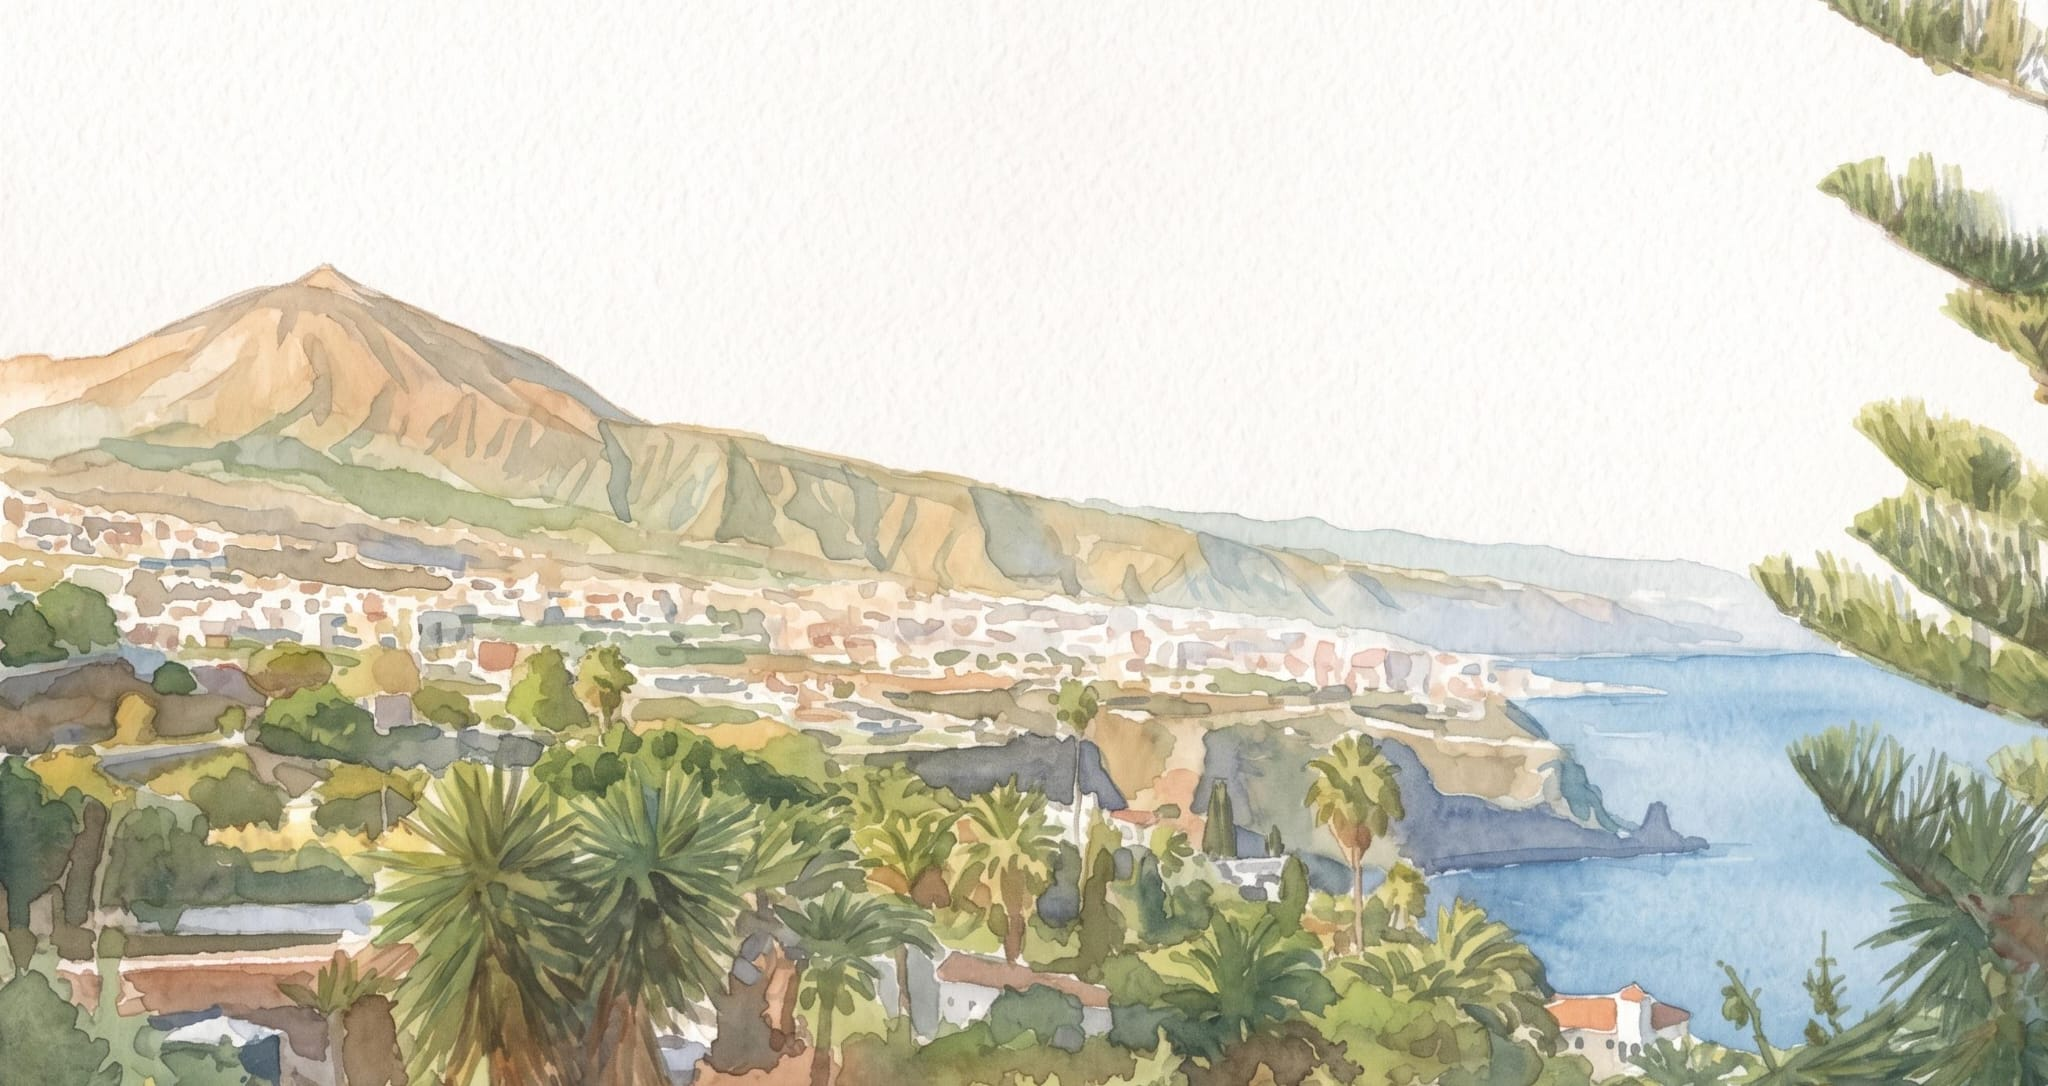
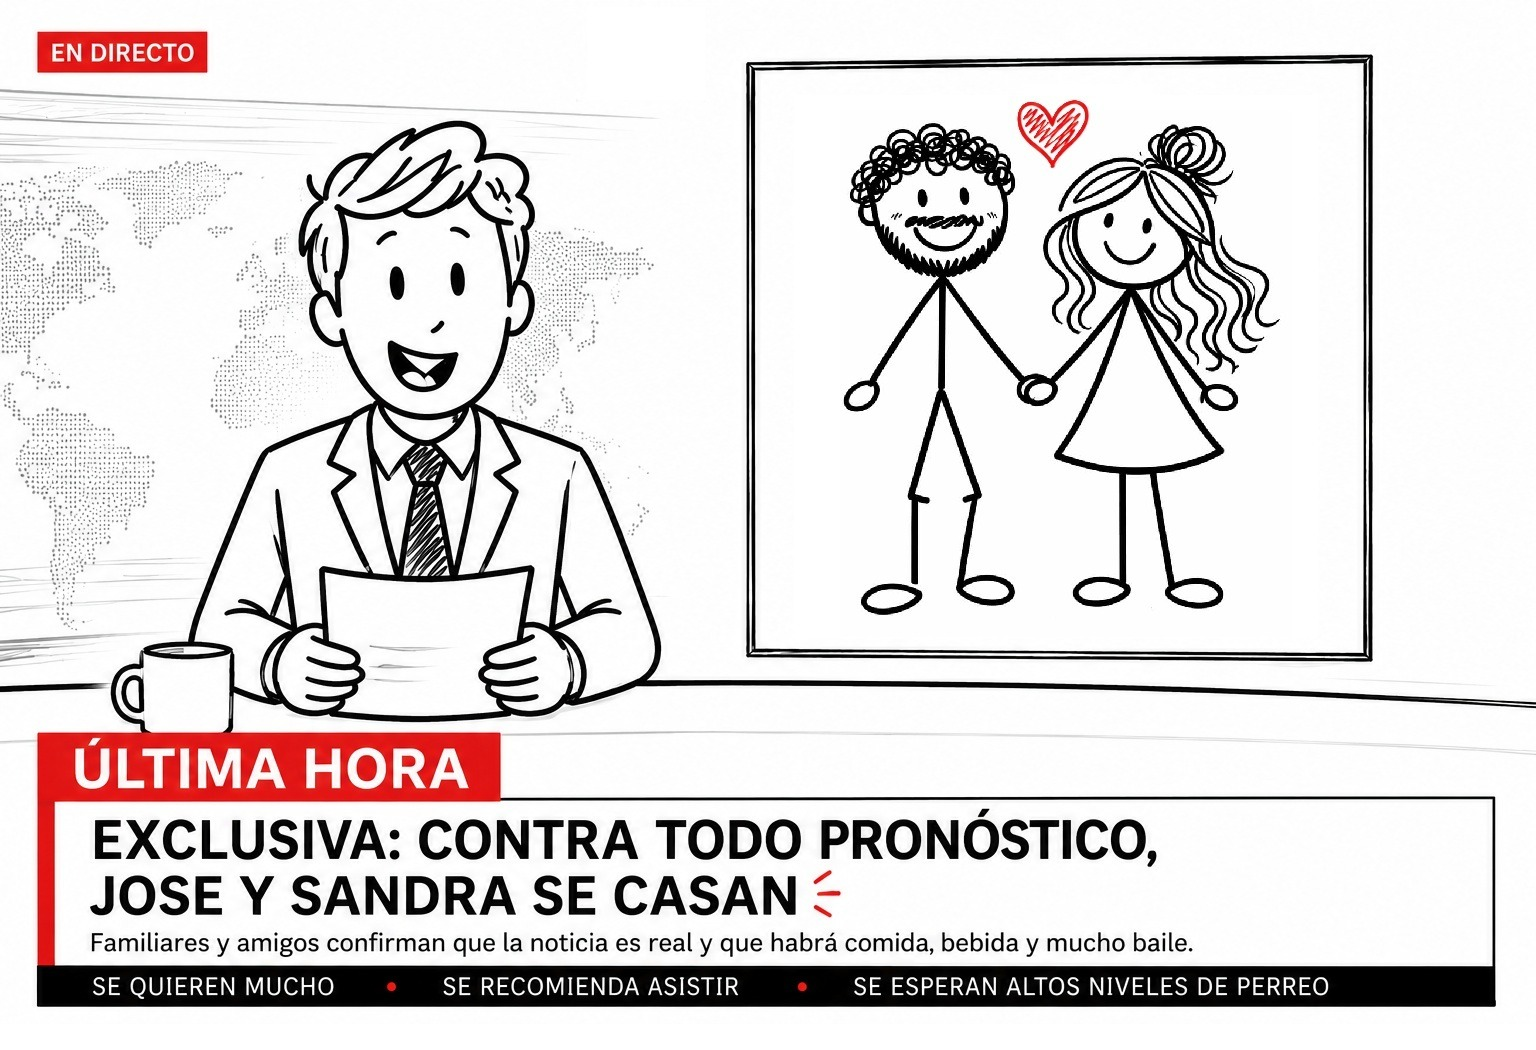
test: integrate drawings into the web

diff --git a/index.html b/index.html
@@ -38,14 +38,15 @@
 
   <!-- HERO -->
   <section id="hero">
-    <div class="hero-overlay"></div>
+    <div class="hero-image-wrap">
+      <img src="/images/portada.jpeg" alt="Sandra &amp; Jose - Portada Boda" class="hero-portada-img" />
+    </div>
     <div class="hero-content">
-      <p class="hero-pre">nos casamos</p>
-      <h1 class="hero-names">Sandra <span class="amp">&amp;</span> Jose</h1>
-      <div class="hero-divider"></div>
+      <!-- <p class="hero-pre">¡nos casamos!</p> -->
       <p class="hero-date">31 · Octubre · 2026</p>
       <p class="hero-venue">Finca San Miguel · La Orotava, Tenerife</p>
-      <p class="hero-quote">Tras 14 años, nuestra historia de amor continúa, eligiéndonos una vez más...<br>¡Y tú vas a formar parte de ella!</p>
+      <p class="hero-quote">Tras 14 años, nuestra historia de amor continúa, eligiéndonos una vez más...<br>¡Y tú vas a
+        formar parte de ella!</p>
       <div class="countdown" id="countdown">
         <div class="count-item"><span id="cd-days">--</span><label>días</label></div>
         <div class="count-sep">:</div>
@@ -55,7 +56,7 @@
         <div class="count-sep">:</div>
         <div class="count-item"><span id="cd-secs">--</span><label>segundos</label></div>
       </div>
-      <a href="#fecha-lugar" class="btn-hero">Ver detalles</a>
+      <!-- <a href="#fecha-lugar" class="btn-hero">Ver detalles</a> -->
     </div>
     <div class="hero-scroll-hint">↓</div>
   </section>
@@ -64,25 +65,26 @@
   <section id="fecha-lugar" class="section">
     <div class="section-inner">
       <span class="section-tag">Cuándo &amp; Dónde</span>
-      <h2 class="section-title">Fecha y Lugar</h2>
+      <h2 class="section-title">Fecha y lugar</h2>
       <div class="fl-grid">
         <div class="fl-card">
-          <div class="fl-icon">📅</div>
-          <h3>La fecha</h3>
-          <p>Sábado, 31 de octubre de 2026</p>
-          <p class="fl-sub">Ceremonia a las 13:00 h</p>
+          <img src="/images/fecha.jpeg" alt="La fecha de la boda" class="fl-card-img" />
+          <h3>31 Octubre 2026</h3>
+          <p>12:30</p>
+          <!-- <p>Sábado, 31 de octubre de 2026</p> -->
+          <!-- <p class="fl-sub">Ceremonia a las 13:00 h</p> -->
         </div>
         <div class="fl-card">
-          <div class="fl-icon">📍</div>
-          <h3>El lugar</h3>
-          <p>Finca San Miguel</p>
-          <p class="fl-sub">C/ San Miguel, La Orotava<br />38300 Tenerife</p>
+          <img src="/images/lugar.jpeg" alt="La fecha de la boda" class="fl-card-img" />
+          <h3>Finca San Miguel</h3>
+          <p>Carretera de La Luz, s/nº<br>38300 La Orotava</p>
+          <!-- <p class="fl-sub">C/ San Miguel, La Orotava<br />38300 Tenerife</p> -->
         </div>
-        <div class="fl-card">
+        <!-- <div class="fl-card">
           <div class="fl-icon">🌊</div>
           <h3>La finca</h3>
           <p>Un enclave único entre jardines tropicales y las vistas al Atlántico.</p>
-        </div>
+        </div> -->
       </div>
       <div class="map-wrap">
         <iframe id="map-iframe" title="Finca San Miguel en Google Maps"
@@ -182,7 +184,8 @@
     <div class="section-inner">
       <span class="section-tag">Logística</span>
       <h2 class="section-title">Transporte</h2>
-      <p class="section-intro">Para que nadie tenga que preocuparse por el transporte, hemos organizado una guagua que hará ruta por los distintos hoteles donde estén alojados, y les dejamos opciones de taxi local.</p>
+      <p class="section-intro">Para que nadie tenga que preocuparse por el transporte, hemos organizado una guagua que
+        hará ruta por los distintos hoteles donde estén alojados, y les dejamos opciones de taxi local.</p>
       <div class="bus-grid">
         <div class="bus-card">
           <div class="bus-route">
@@ -246,7 +249,8 @@
     <div class="section-inner">
       <span class="section-tag">Dónde dormir</span>
       <h2 class="section-title">Alojamiento</h2>
-      <p class="section-intro">El Puerto de la Cruz cuenta con una gran oferta hotelera. Aquí les dejamos algunas recomendaciones para su estancia.</p>
+      <p class="section-intro">El Puerto de la Cruz cuenta con una gran oferta hotelera. Aquí les dejamos algunas
+        recomendaciones para su estancia.</p>
       <div class="hotel-grid">
         <div class="hotel-card">
           <div class="hotel-info">
@@ -258,7 +262,8 @@
           </div>
           <div class="hotel-desc">
             <p>Un hotel clásico y elegante con unos jardines impresionantes.</p>
-            <a href="https://hotelbotanico.com/" target="_blank" rel="noopener noreferrer" class="hotel-link">Ver web oficial →</a>
+            <a href="https://hotelbotanico.com/" target="_blank" rel="noopener noreferrer" class="hotel-link">Ver web
+              oficial →</a>
           </div>
         </div>
         <div class="hotel-card">
@@ -271,7 +276,8 @@
           </div>
           <div class="hotel-desc">
             <p>El histórico hotel recién reformado con vistas a toda la ciudad.</p>
-            <a href="https://www.hoteltaoro.com/" target="_blank" rel="noopener noreferrer" class="hotel-link">Ver web oficial →</a>
+            <a href="https://www.hoteltaoro.com/" target="_blank" rel="noopener noreferrer" class="hotel-link">Ver web
+              oficial →</a>
           </div>
         </div>
         <div class="hotel-card">
@@ -284,7 +290,8 @@
           </div>
           <div class="hotel-desc">
             <p>En pleno paseo marítimo, frente al complejo Martiánez.</p>
-            <a href="https://www.hotelvallemar.com/" target="_blank" rel="noopener noreferrer" class="hotel-link">Ver web oficial →</a>
+            <a href="https://www.hotelvallemar.com/" target="_blank" rel="noopener noreferrer" class="hotel-link">Ver
+              web oficial →</a>
           </div>
         </div>
       </div>
@@ -343,8 +350,9 @@
     <div class="section-inner">
       <span class="section-tag">Un detalle</span>
       <h2 class="section-title">Regalos</h2>
-      <p class="section-intro">El mejor regalo es que nos acompañen en este día tan especial. Sin embargo, si desean tener un detalle con nosotros y colaborar con nuestra luna de miel, pueden hacerlo en la siguiente cuenta:</p>
-      
+      <p class="section-intro">El mejor regalo es que nos acompañen en este día tan especial. Sin embargo, si desean
+        tener un detalle con nosotros y colaborar con nuestra luna de miel, pueden hacerlo en la siguiente cuenta:</p>
+
       <div class="gift-card">
         <div class="gift-icon">🎁</div>
         <h3 class="gift-title">Nuestra Cuenta</h3>

diff --git a/src/style.css b/src/style.css
@@ -223,78 +223,58 @@ ul {
    ================================================ */
 #hero {
   position: relative;
-  min-height: 100svh;
+  height: 100svh;
+  display: flex;
+  flex-direction: column;
+  overflow: hidden;
+  background: var(--c-bg);
+  padding-top: var(--nav-h);
+}
+
+.hero-image-wrap {
+  width: 100%;
+  height: 52%;
+  overflow: hidden;
+  background: var(--c-bg);
   display: flex;
   align-items: center;
   justify-content: center;
-  overflow: hidden;
-  background:
-    url('/images/portada.jpeg') bottom left/cover no-repeat;
+  padding: 0.5rem 0 0;
 }
 
-.hero-overlay {
-  position: absolute;
-  inset: 0;
-  background: linear-gradient(180deg,
-      rgba(253, 251, 247, 0.72) 0%,
-      rgba(253, 251, 247, 0.45) 50%,
-      rgba(253, 251, 247, 0.82) 100%);
-  backdrop-filter: blur(1px);
+.hero-portada-img {
+  width: auto;
+  height: auto;
+  max-width: 100%;
+  max-height: 100%;
+  object-fit: contain;
+  border-radius: 6px;
+  border: 1px solid rgba(74, 53, 24, 0.08);
+  box-shadow: 0 2px 10px rgba(0, 0, 0, 0.04);
 }
 
 .hero-content {
   position: relative;
   z-index: 2;
   text-align: center;
-  padding: calc(var(--nav-h) + 2rem) 1.5rem 5rem;
+  flex: 1;
+  padding: 0.5rem 1.25rem 1.5rem;
   display: flex;
   flex-direction: column;
   align-items: center;
-  gap: .75rem;
+  justify-content: center;
+  gap: .3rem;
   max-width: 700px;
-  text-shadow:
-    0 0 12px rgba(255, 255, 255, 1),
-    0 0 24px rgba(255, 255, 255, 0.95),
-    0 2px 6px rgba(255, 255, 255, 0.9);
-}
-
-.hero-pre {
-  font-family: var(--ff-sans);
-  font-size: .75rem;
-  letter-spacing: .35em;
-  text-transform: uppercase;
-  color: var(--c-gold);
-  animation: fadeUp .8s ease both;
-}
-
-.hero-names {
-  font-family: var(--ff-serif);
-  font-size: clamp(3.2rem, 10vw, 6.5rem);
-  font-weight: 300;
-  line-height: 1.1;
-  color: var(--c-text);
-  animation: fadeUp .8s .1s ease both;
-}
-
-.hero-names .amp {
-  color: var(--c-gold);
-  font-style: italic;
-}
-
-.hero-divider {
-  width: 80px;
-  height: 1px;
-  background: linear-gradient(90deg, transparent, var(--c-gold), transparent);
-  animation: fadeUp .8s .2s ease both;
+  margin: 0 auto;
 }
 
 .hero-date {
   font-family: var(--ff-serif);
-  font-size: clamp(1.1rem, 4vw, 1.7rem);
-  font-weight: 300;
+  font-size: clamp(1.2rem, 4.5vw, 1.8rem);
+  font-weight: 400;
   color: var(--c-gold-lt);
   letter-spacing: .2em;
-  animation: fadeUp .8s .25s ease both;
+  animation: fadeUp .8s .15s ease both;
 }
 
 .hero-venue {
@@ -302,75 +282,75 @@ ul {
   letter-spacing: .12em;
   text-transform: uppercase;
   color: var(--c-text-muted);
-  animation: fadeUp .8s .3s ease both;
+  animation: fadeUp .8s .2s ease both;
 }
 
 .hero-quote {
   font-family: var(--ff-serif);
-  font-size: clamp(1.2rem, 3vw, 1.5rem);
+  font-size: clamp(1.05rem, 3.2vw, 1.35rem);
   font-style: italic;
   color: var(--c-text);
   max-width: 550px;
   line-height: 1.5;
-  margin-top: .75rem;
+  margin-top: .4rem;
   margin-bottom: .25rem;
-  animation: fadeUp .8s .35s ease both;
+  animation: fadeUp .8s .25s ease both;
 }
 
 /* Countdown */
 .countdown {
   display: flex;
   align-items: center;
-  gap: .5rem;
-  margin-top: .5rem;
-  animation: fadeUp .8s .4s ease both;
+  gap: .4rem;
+  margin-top: .25rem;
+  animation: fadeUp .8s .3s ease both;
 }
 
 .count-item {
   display: flex;
   flex-direction: column;
   align-items: center;
-  gap: .1rem;
-  min-width: 52px;
+  gap: .05rem;
+  min-width: 48px;
   background: rgba(201, 169, 110, .08);
   border: 1px solid var(--c-border);
   border-radius: var(--radius);
-  padding: .6rem .5rem .4rem;
+  padding: .5rem .4rem .3rem;
 }
 
 .count-item span {
   font-family: var(--ff-serif);
-  font-size: clamp(1.5rem, 5vw, 2.2rem);
+  font-size: clamp(1.3rem, 4.5vw, 1.9rem);
   font-weight: 400;
   color: var(--c-gold);
   line-height: 1;
 }
 
 .count-item label {
-  font-size: .6rem;
-  letter-spacing: .12em;
+  font-size: .55rem;
+  letter-spacing: .1em;
   text-transform: uppercase;
   color: var(--c-text-muted);
 }
 
 .count-sep {
-  font-size: 1.5rem;
+  font-size: 1.2rem;
   color: var(--c-gold);
   opacity: .5;
-  margin-bottom: .5rem;
+  margin-bottom: .4rem;
 }
 
 .btn-hero {
-  margin-top: .5rem;
-  padding: .85rem 2.5rem;
+  margin-top: .4rem;
+  padding: .75rem 2.2rem;
   border: 1px solid var(--c-gold);
   border-radius: 50px;
-  font-size: .8rem;
-  letter-spacing: .18em;
+  font-size: .78rem;
+  letter-spacing: .15em;
   text-transform: uppercase;
   color: var(--c-gold);
   transition: background .25s, color .25s;
-  animation: fadeUp .8s .55s ease both;
+  animation: fadeUp .8s .4s ease both;
 }
 
 .btn-hero:hover {
@@ -380,11 +360,11 @@ ul {
 
 .hero-scroll-hint {
   position: absolute;
-  bottom: 2rem;
+  bottom: 0.25rem;
   left: 50%;
   transform: translateX(-50%);
   color: var(--c-gold);
-  font-size: 1.4rem;
+  font-size: 1.2rem;
   animation: bounce 2s 1.5s infinite;
   z-index: 2;
 }
@@ -441,8 +421,8 @@ ul {
    ================================================ */
 #fecha-lugar {
   position: relative;
-  background:
-    url('/images/finca.jpg') center 60% / cover no-repeat;
+  /* background:
+    url('/images/finca.jpg') center 60% / cover no-repeat; */
 }
 
 #fecha-lugar::before {
@@ -468,7 +448,7 @@ ul {
 
 @media (min-width: 600px) {
   .fl-grid {
-    grid-template-columns: repeat(3, 1fr);
+    grid-template-columns: repeat(2, 1fr);
   }
 }
 
@@ -491,6 +471,15 @@ ul {
 
 .fl-icon {
   font-size: 2rem;
+}
+
+.fl-card-img {
+  width: 100%;
+  aspect-ratio: 4 / 3;
+  object-fit: cover;
+  border-radius: var(--radius);
+  border: 2px solid #111;
+  display: block;
 }
 
 .fl-card h3 {
